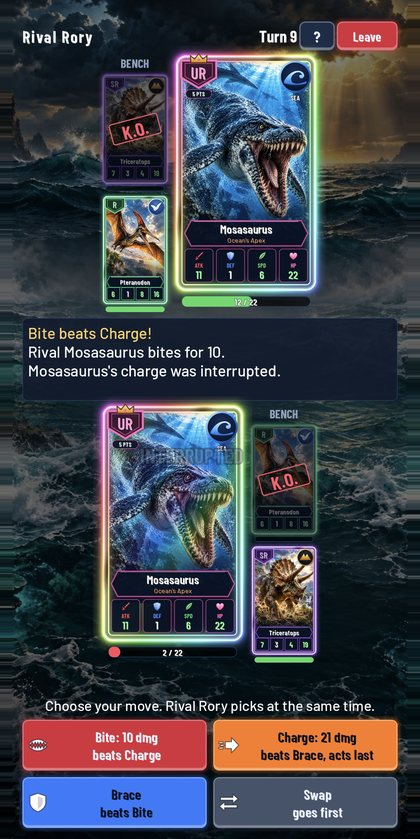
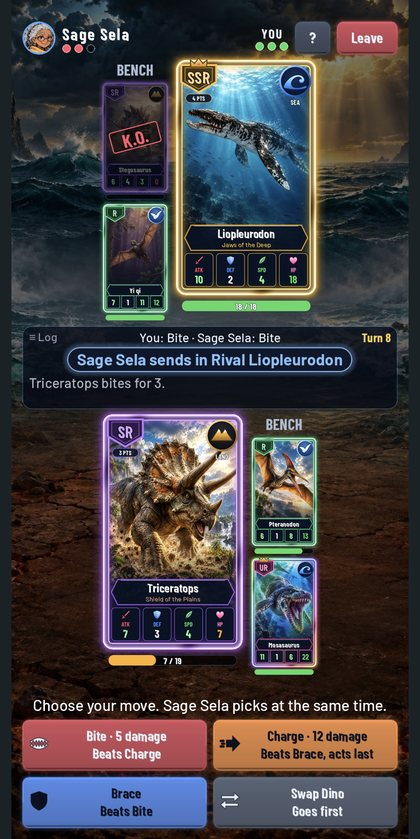
Website and README: the 0.6.3 screenshots
Nine shots (battle, Journey, rival popup, T. rex with mastery, Party, Eggs,
Legendary hatch, the Professaur's tour, Goals); the 0.6.0 ones that show the
old tab bar and buttons are gone from the gallery.

diff --git a/docs/index.html b/docs/index.html
@@ -84,17 +84,15 @@
     <section aria-label="Screenshots">
       <h2>Screenshots</h2>
       <div class="shots">
-        <img src="site/01_battle.jpg" alt="A battle: both sides pick Bite, Charge, Brace or Swap at the same time" width="420" height="839" loading="lazy">
-        <img src="site/02_journey.jpg" alt="The Journey map through the Jurassic, with a rival at every stop" width="420" height="839" loading="lazy">
-        <img src="site/03_hatch_legendary.jpg" alt="Hatching a Legendary Cymbospondylus" width="420" height="839" loading="lazy">
-        <img src="site/04_card_t_rex_shiny.jpg" alt="The Shiny Tyrannosaurus Rex card" width="420" height="839" loading="lazy">
-        <img src="site/05_rival_rory.jpg" alt="Rival Rory, the boss of the Triassic, with his Alpha Liliensternus" width="420" height="839" loading="lazy">
-        <img src="site/06_dex_cretaceous.jpg" alt="The Dino Dex: 68 prehistoric creatures" width="420" height="839" loading="lazy">
-        <img src="site/07_coached_first_battle.jpg" alt="A coach teaches the moves in your first battle" width="420" height="839" loading="lazy">
-        <img src="site/08_goals.jpg" alt="Daily check-in, quests and collection rewards" width="420" height="839" loading="lazy">
-        <img src="site/09_battle_intro.jpg" alt="Rival Rory wants to battle!" width="420" height="839" loading="lazy">
-        <img src="site/10_checkin.jpg" alt="The daily check-in, building to a Rare clutch on day 7" width="420" height="839" loading="lazy">
-        <img src="site/11_choose_partner.jpg" alt="Choosing your partner dino" width="420" height="839" loading="lazy">
+        <img src="site/01_battle.jpg" alt="A battle: Triceratops against Sage Sela's Liopleurodon. Both sides pick Bite, Charge, Brace or Swap Dino at the same time" width="420" height="839" loading="lazy">
+        <img src="site/02_journey.jpg" alt="The Journey map through the Jurassic, with a rival at every stop and star chests to fill" width="420" height="839" loading="lazy">
+        <img src="site/03_rival_sela.jpg" alt="Sage Sela's team and her habit, before you challenge her" width="420" height="839" loading="lazy">
+        <img src="site/04_card_t_rex.jpg" alt="The Shiny Tyrannosaurus Rex card, a Legend after 25 wins" width="420" height="839" loading="lazy">
+        <img src="site/05_party.jpg" alt="Your party: three saved parties, search, filters and sorting" width="420" height="839" loading="lazy">
+        <img src="site/06_eggs.jpg" alt="Fossil eggs: hatch clutches, buy a Rare clutch, and see your hatch history" width="420" height="839" loading="lazy">
+        <img src="site/07_hatch_legendary.jpg" alt="Hatching a Legendary Cymbospondylus" width="420" height="839" loading="lazy">
+        <img src="site/08_professaur_tour.jpg" alt="The Professaur welcomes you to camp" width="420" height="839" loading="lazy">
+        <img src="site/09_goals.jpg" alt="Goals: daily check-in and quests, collection rewards and achievements, with Claim all" width="420" height="839" loading="lazy">
       </div>
       <p class="hint">Swipe or scroll sideways for more.</p>
     </section>

diff --git a/README.md b/README.md
@@ -5,17 +5,15 @@ A dinosaur card-battle game for Android: hatch fossil eggs, collect 65+ prehisto
 **Website:** https://johanlee2000.github.io/DinoDuel/ · **Privacy policy:** https://johanlee2000.github.io/DinoDuel/privacy-policy.html
 
 <p>
-  <img src="docs/site/01_battle.jpg" alt="A battle: both sides pick Bite, Charge, Brace or Swap at the same time" width="200">
-  <img src="docs/site/02_journey.jpg" alt="The Journey map through the Jurassic, with a rival at every stop" width="200">
-  <img src="docs/site/03_hatch_legendary.jpg" alt="Hatching a Legendary Cymbospondylus" width="200">
-  <img src="docs/site/04_card_t_rex_shiny.jpg" alt="The Shiny Tyrannosaurus Rex card" width="200">
-  <img src="docs/site/05_rival_rory.jpg" alt="Rival Rory, the boss of the Triassic, with his Alpha Liliensternus" width="200">
-  <img src="docs/site/06_dex_cretaceous.jpg" alt="The Dino Dex: 68 prehistoric creatures" width="200">
-  <img src="docs/site/07_coached_first_battle.jpg" alt="A coach teaches the moves in your first battle" width="200">
-  <img src="docs/site/08_goals.jpg" alt="Daily check-in, quests and collection rewards" width="200">
-  <img src="docs/site/09_battle_intro.jpg" alt="Rival Rory wants to battle!" width="200">
-  <img src="docs/site/10_checkin.jpg" alt="The daily check-in, building to a Rare clutch on day 7" width="200">
-  <img src="docs/site/11_choose_partner.jpg" alt="Choosing your partner dino" width="200">
+  <img src="docs/site/01_battle.jpg" alt="A battle: Triceratops against Sage Sela's Liopleurodon. Both sides pick Bite, Charge, Brace or Swap Dino at the same time" width="200">
+  <img src="docs/site/02_journey.jpg" alt="The Journey map through the Jurassic, with a rival at every stop and star chests to fill" width="200">
+  <img src="docs/site/03_rival_sela.jpg" alt="Sage Sela's team and her habit, before you challenge her" width="200">
+  <img src="docs/site/04_card_t_rex.jpg" alt="The Shiny Tyrannosaurus Rex card, a Legend after 25 wins" width="200">
+  <img src="docs/site/05_party.jpg" alt="Your party: three saved parties, search, filters and sorting" width="200">
+  <img src="docs/site/06_eggs.jpg" alt="Fossil eggs: hatch clutches, buy a Rare clutch, and see your hatch history" width="200">
+  <img src="docs/site/07_hatch_legendary.jpg" alt="Hatching a Legendary Cymbospondylus" width="200">
+  <img src="docs/site/08_professaur_tour.jpg" alt="The Professaur welcomes you to camp" width="200">
+  <img src="docs/site/09_goals.jpg" alt="Goals: daily check-in and quests, collection rewards and achievements, with Claim all" width="200">
 </p>
 
 ## The game
